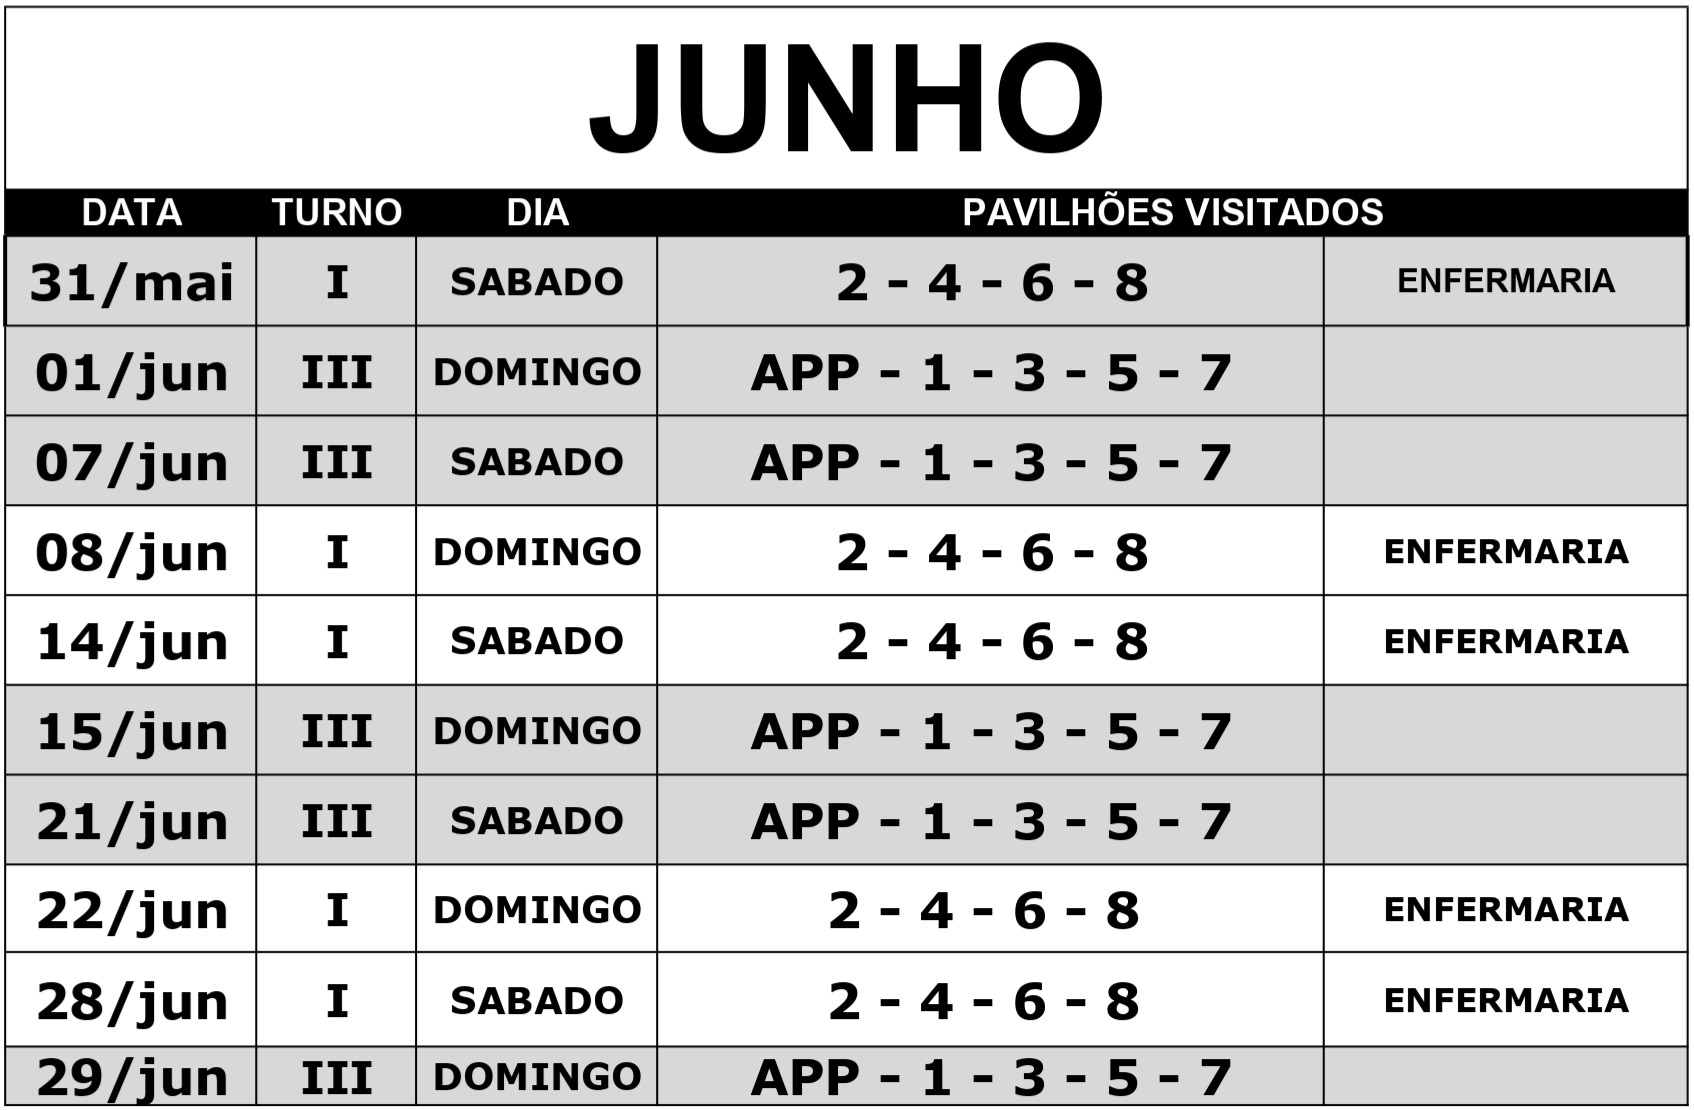
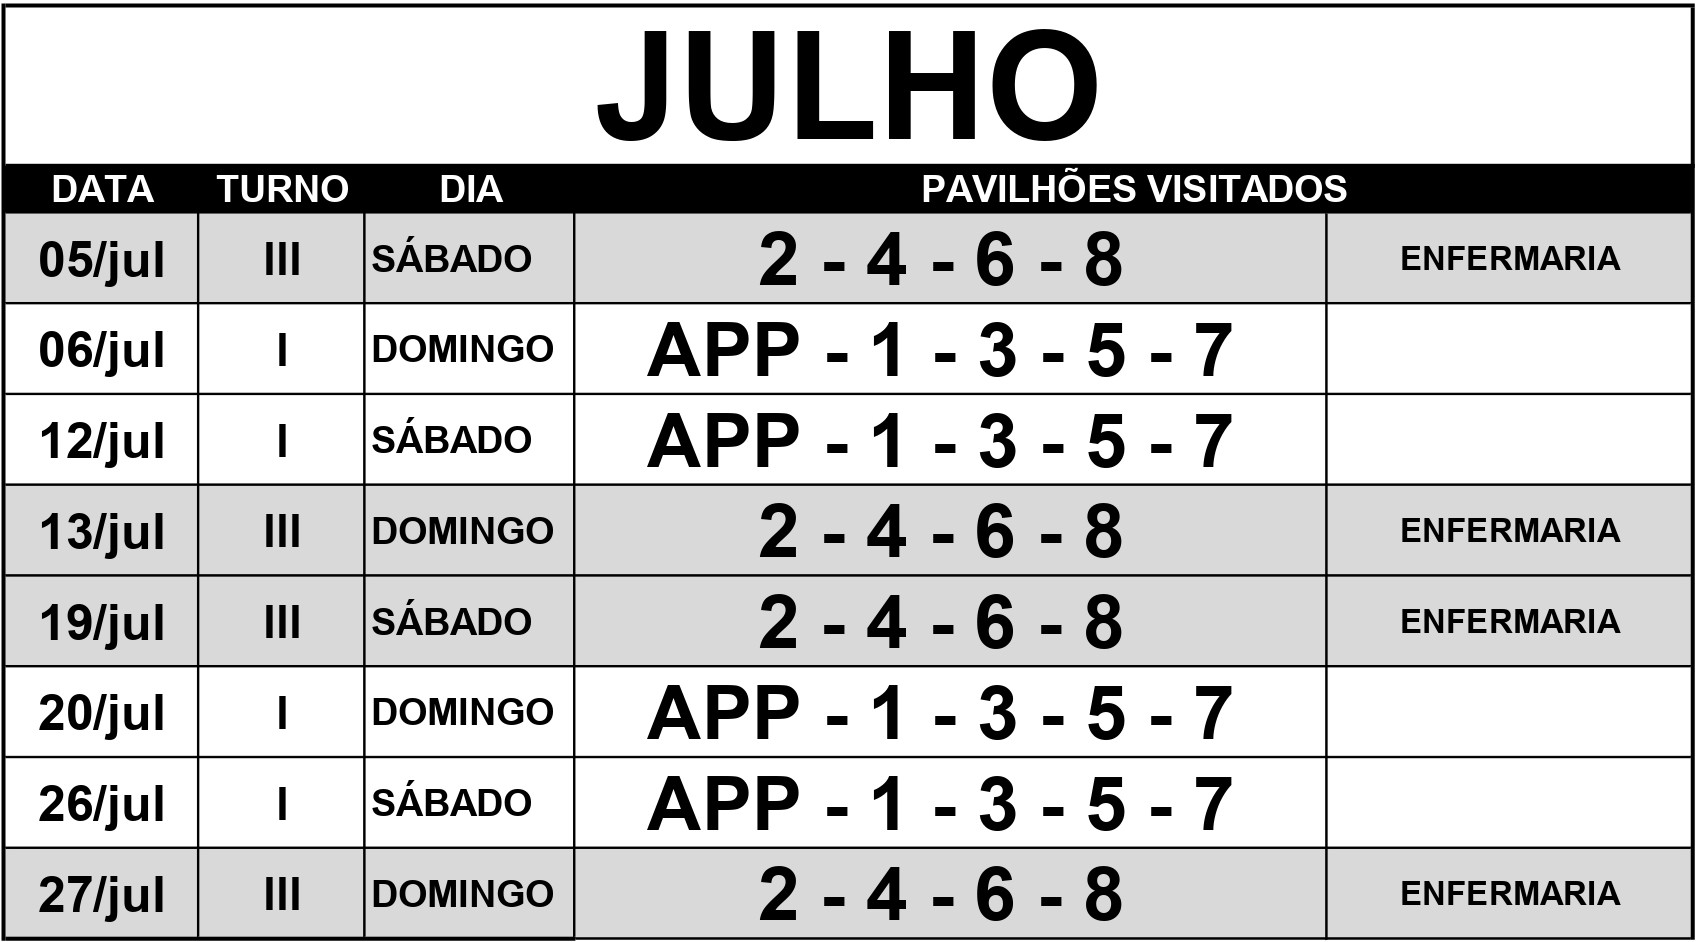
commit calendário julho

diff --git a/calendario.html b/calendario.html
@@ -32,8 +32,8 @@
     <main>
       <section>
         <h2>Calendário de Visitação</h2>
-        <img src="imagens/calendario.jpg" alt="Calendário de Visitação">
-        <p style="text-align: center;">Atualizado dia 28/05/2025</p>
+        <img src="imagens/calendario.JPG" alt="Calendário de Visitação">
+        <p style="text-align: center;">Atualizado dia 01/06/2025</p>
         <!--<p style="color: red; font-weight: bold; text-align: center;">DEVIDO AS ELEIÇÕES, A VISITAÇÃO DO DIA 02/10/2022 TERÁ SEU HORÁRIO ALERADO. DAS 10H ÀS 16H.</p>-->
       </section>
     </main>

diff --git a/index.html b/index.html
@@ -59,8 +59,8 @@
           <p><a href="https://wa.me/551532678200?text=Menu" target="_blank" class="link-verde">Clique Aqui para Iniciar</a></p>
         </section>
         <section>
-          <p>Calendário Junho de 2025</p>
-          <img src="imagens/calendario.jpg" alt="Informações sobre o Calendário">
+          <p>Calendário Julho de 2025</p>
+          <img src="imagens/calendario.JPG" alt="Informações sobre o Calendário">
         </section>
         <section>
           <h3 style="color: red;">Atenção Visitantes!</h3>
